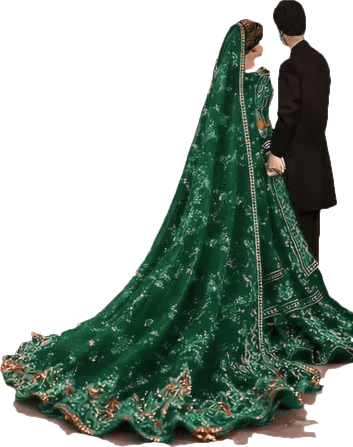
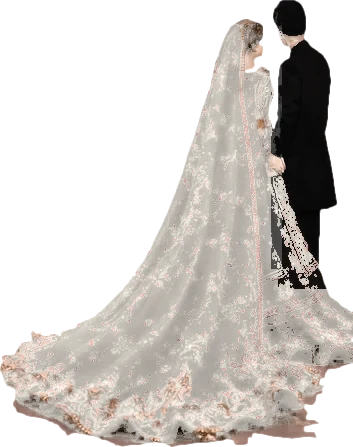
Areeba & Suleman: white bridal gown, black suit, pink cosmos blossoms among the green roses
Claude-Session: https://claude.ai/code/session_014mE54nZZVFzgToMktFZNKW

diff --git a/areeba-suleman/index.html b/areeba-suleman/index.html
@@ -300,6 +300,19 @@
   .st-rose.bl{bottom:0;left:0;width:min(34vw,190px)}
   .st-rose.br{bottom:0;right:0;width:min(34vw,190px);transform:scaleX(-1)}
   .stage.opening .st-rose{opacity:0}
+  /* pink cosmos blossoms mixed into the green rose clusters */
+  .cosm{position:absolute;height:auto;pointer-events:none;z-index:2;filter:drop-shadow(0 2px 4px rgba(10,50,35,.28))}
+  .cosm.a{width:13cqw;top:30cqw;left:5cqw;transform:rotate(-14deg)}
+  .cosm.b{width:10cqw;top:9cqw;left:23cqw;transform:rotate(10deg)}
+  .cosm.c{width:11cqw;top:33cqw;right:3cqw;transform:rotate(18deg)}
+  .cosm.d{width:12cqw;bottom:25cqw;left:2cqw;transform:rotate(-8deg)}
+  .cosm.e{display:none}
+  .st-cosm{position:fixed;height:auto;pointer-events:none;z-index:0;filter:drop-shadow(0 2px 4px rgba(10,50,35,.25));transition:opacity .6s}
+  .stage.opening .st-cosm{opacity:0}
+  .st-cosm.a{width:min(15vw,84px);top:min(21vw,118px);left:min(29vw,160px);transform:rotate(-12deg)}
+  .st-cosm.b{width:min(12vw,66px);top:min(9vw,50px);right:min(36vw,200px);transform:rotate(14deg)}
+  .st-cosm.c{width:min(13vw,72px);bottom:min(17vw,96px);left:min(25vw,140px);transform:rotate(10deg)}
+  .st-cosm.d{width:min(13vw,72px);bottom:min(12vw,68px);right:min(24vw,134px);transform:rotate(-14deg)}
   .col{position:relative;z-index:1}
   /* real roses in the invitation */
   #invite{position:relative}
@@ -311,7 +324,7 @@
   footer>*:not(.f-rose){position:relative;z-index:1}
   /* every section divider carries a real rose */
   .rule{position:relative;overflow:visible}
-  .rule::after{content:"";position:absolute;left:50%;top:50%;width:30px;height:30px;transform:translate(-50%,-50%);border-radius:50%;background:url(/areeba-suleman/assets/rose-head.webp) center/cover;border:1px solid var(--gold);box-shadow:0 1px 4px var(--shadow)}
+  .rule::after{content:"";position:absolute;left:50%;top:50%;width:30px;height:30px;transform:translate(-50%,-50%);border-radius:50%;background:url(/areeba-suleman/assets/cos2.webp) center/cover;border:1px solid var(--gold);box-shadow:0 1px 4px var(--shadow)}
   .chap-in .rule::after{width:22px;height:22px}
   /* scroll reveal */
   .rv-on .rv{opacity:0;transform:translateY(22px);transition:opacity .8s ease,transform .8s ease}
@@ -419,6 +432,10 @@
   <img class="st-rose tr" src="/areeba-suleman/assets/rose-tr.webp" alt="" decoding="async">
   <img class="st-rose bl" src="/areeba-suleman/assets/rose-bl.webp" alt="" decoding="async">
   <img class="st-rose br" src="/areeba-suleman/assets/rose-bl.webp" alt="" decoding="async">
+  <img class="st-cosm a" src="/areeba-suleman/assets/cos1.webp" alt="" decoding="async">
+  <img class="st-cosm b" src="/areeba-suleman/assets/cos2.webp" alt="" decoding="async">
+  <img class="st-cosm c" src="/areeba-suleman/assets/cos2.webp" alt="" decoding="async">
+  <img class="st-cosm d" src="/areeba-suleman/assets/cos1.webp" alt="" decoding="async">
   <div class="col">
   <div class="box">
     <section class="cover" id="cover" aria-hidden="true">
@@ -426,6 +443,11 @@
       <img class="rc tr" src="/areeba-suleman/assets/rose-tr.webp" alt="" width="888" height="1260" decoding="async">
       <img class="rc bl" src="/areeba-suleman/assets/rose-bl.webp" alt="" width="690" height="1362" decoding="async">
 
+      <img class="cosm a" src="/areeba-suleman/assets/cos1.webp" alt="" decoding="async">
+      <img class="cosm b" src="/areeba-suleman/assets/cos2.webp" alt="" decoding="async">
+      <img class="cosm c" src="/areeba-suleman/assets/cos2.webp" alt="" decoding="async">
+      <img class="cosm d" src="/areeba-suleman/assets/cos1.webp" alt="" decoding="async">
+      <img class="cosm e" src="/areeba-suleman/assets/cos2.webp" alt="" decoding="async">
       <img class="couple" src="/areeba-suleman/assets/couple.webp" alt="" width="353" height="447" decoding="async">
 
       <div class="ec-body">
@@ -887,6 +909,8 @@
     /* real rose clusters, placed at the same proportions as on the card */
     function put(im,x,y,wu,fromRight,fromBottom){if(!im)return;var w=px(wu),h=w*im.naturalHeight/im.naturalWidth;c.drawImage(im,fromRight?W-w:x,fromBottom?H-h:y,w,h)}
     put(imgs.tl,0,0,39.4);put(imgs.tr,0,0,40.2,true);put(imgs.bl,0,0,31.3,false,true);
+    function bloom(im,wu,x,y,deg){if(!im)return;var w=px(wu),h=w*im.naturalHeight/im.naturalWidth;c.save();c.shadowColor='rgba(10,50,35,.28)';c.shadowBlur=px(1);c.shadowOffsetY=px(.4);c.translate(px(x)+w/2,y+h/2);c.rotate(deg*RAD);c.drawImage(im,-w/2,-h/2,w,h);c.restore()}
+    bloom(imgs.c1,13,5,px(30),-14);bloom(imgs.c2,10,23,px(9),10);bloom(imgs.c2,11,86,px(33),18);bloom(imgs.c1,12,2,H-px(25)-px(14),-8);
 
     /* bride and groom (cut-out picture) */
     if(couple){var cw=px(41),ch=cw*couple.naturalHeight/couple.naturalWidth;c.drawImage(couple,W-cw+px(1),H-ch+px(1),cw,ch)}
@@ -934,7 +958,7 @@
   }
   function renderCard(){
     var fonts=['700 40px "Aref Ruqaa"','40px "Satisfy"','600 40px "Cormorant SC"','400 40px "Cormorant Garamond"','italic 400 40px "Cormorant Garamond"','600 40px "Cormorant Garamond"'];
-    var imgs={},srcs={silk:'/areeba-suleman/assets/silk.webp',couple:'/areeba-suleman/assets/couple.webp',tl:'/areeba-suleman/assets/rose-tl.webp',tr:'/areeba-suleman/assets/rose-tr.webp',bl:'/areeba-suleman/assets/rose-bl.webp'};
+    var imgs={},srcs={c1:'/areeba-suleman/assets/cos1.webp',c2:'/areeba-suleman/assets/cos2.webp',silk:'/areeba-suleman/assets/silk.webp',couple:'/areeba-suleman/assets/couple.webp',tl:'/areeba-suleman/assets/rose-tl.webp',tr:'/areeba-suleman/assets/rose-tr.webp',bl:'/areeba-suleman/assets/rose-bl.webp'};
     var imgP=Promise.all(Object.keys(srcs).map(function(k){return new Promise(function(res){var im=new Image();im.onload=function(){imgs[k]=im;res()};im.onerror=function(){res()};im.src=srcs[k]})}));
     return Promise.all(fonts.map(function(f){return document.fonts.load(f,'Aa')}).concat([imgP])).catch(function(){}).then(function(){
       var cv=drawCard(guest||'Guest',imgs);
